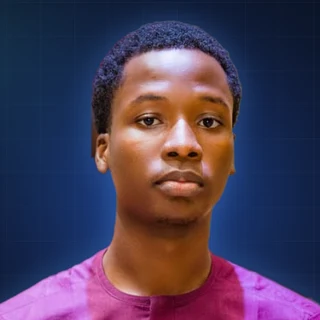
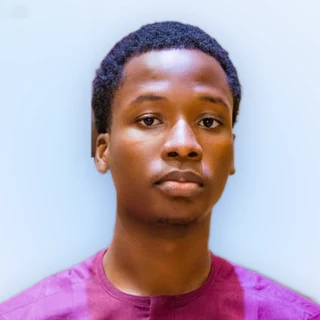
Switch to a light theme
Cool white canvas with navy text and blue accents; portrait and avatar
re-composed on a light backdrop; logo keeps its navy tile for contrast.

Claude-Session: https://claude.ai/code/session_01PW1ZTwRFQ2gmz89tXZHdqH

diff --git a/src/styles.css b/src/styles.css
@@ -12,8 +12,8 @@
 @custom-variant dark (&:is(.dark *));
 
 /*
- * Design system — "Midnight circuit"
- * Near-black navy canvas, electric blue primary, cyan signal, a whisper of violet.
+ * Design system — "Daylight circuit"
+ * Cool white canvas, deep navy ink, confident blue primary, teal signal, a touch of violet.
  * Every color in components must come from these tokens.
  */
 
@@ -77,65 +77,67 @@
 
 :root {
   --radius: 0.875rem;
-  --background: oklch(0.145 0.022 262);
-  --foreground: oklch(0.965 0.008 250);
-  --surface: oklch(0.17 0.026 262);
-  --surface-raised: oklch(0.205 0.032 262);
-  --card: oklch(0.175 0.027 262);
-  --card-foreground: oklch(0.965 0.008 250);
-  --popover: oklch(0.19 0.03 262);
-  --popover-foreground: oklch(0.965 0.008 250);
-  --primary: oklch(0.68 0.19 254);
-  --primary-foreground: oklch(0.14 0.03 262);
-  --cyan: oklch(0.84 0.13 205);
-  --violet: oklch(0.66 0.19 295);
-  --success: oklch(0.78 0.15 165);
-  --secondary: oklch(0.22 0.033 262);
-  --secondary-foreground: oklch(0.965 0.008 250);
-  --muted: oklch(0.21 0.03 262);
-  --muted-foreground: oklch(0.72 0.028 256);
-  --accent: oklch(0.25 0.045 262);
-  --accent-foreground: oklch(0.965 0.008 250);
-  --destructive: oklch(0.66 0.21 22);
+  --background: oklch(0.985 0.004 255);
+  --foreground: oklch(0.22 0.035 262);
+  --surface: oklch(0.97 0.008 255);
+  --surface-raised: oklch(0.945 0.014 258);
+  --brand-ink: oklch(0.2 0.04 262);
+  --card: oklch(1 0 0);
+  --card-foreground: oklch(0.22 0.035 262);
+  --popover: oklch(1 0 0);
+  --popover-foreground: oklch(0.22 0.035 262);
+  --primary: oklch(0.55 0.21 258);
+  --primary-foreground: oklch(1 0 0);
+  --cyan: oklch(0.55 0.13 225);
+  --violet: oklch(0.55 0.22 292);
+  --success: oklch(0.6 0.15 160);
+  --secondary: oklch(0.955 0.012 258);
+  --secondary-foreground: oklch(0.22 0.035 262);
+  --muted: oklch(0.96 0.01 258);
+  --muted-foreground: oklch(0.47 0.03 258);
+  --accent: oklch(0.94 0.02 258);
+  --accent-foreground: oklch(0.22 0.035 262);
+  --destructive: oklch(0.58 0.22 25);
   --destructive-foreground: oklch(0.98 0 0);
-  --border: oklch(0.85 0.04 255 / 0.1);
-  --input: oklch(0.85 0.04 255 / 0.14);
-  --ring: oklch(0.68 0.19 254);
-  --chart-1: oklch(0.68 0.19 254);
-  --chart-2: oklch(0.84 0.13 205);
-  --chart-3: oklch(0.66 0.19 295);
-  --chart-4: oklch(0.78 0.15 165);
-  --chart-5: oklch(0.8 0.14 80);
-  --sidebar: oklch(0.17 0.026 262);
-  --sidebar-foreground: oklch(0.965 0.008 250);
-  --sidebar-primary: oklch(0.68 0.19 254);
-  --sidebar-primary-foreground: oklch(0.14 0.03 262);
-  --sidebar-accent: oklch(0.25 0.045 262);
-  --sidebar-accent-foreground: oklch(0.965 0.008 250);
-  --sidebar-border: oklch(0.85 0.04 255 / 0.1);
-  --sidebar-ring: oklch(0.68 0.19 254);
+  --border: oklch(0.3 0.05 260 / 0.12);
+  --input: oklch(0.3 0.05 260 / 0.2);
+  --ring: oklch(0.55 0.21 258);
+  --chart-1: oklch(0.55 0.21 258);
+  --chart-2: oklch(0.55 0.13 225);
+  --chart-3: oklch(0.55 0.22 292);
+  --chart-4: oklch(0.6 0.15 160);
+  --chart-5: oklch(0.7 0.15 75);
+  --sidebar: oklch(0.97 0.008 255);
+  --sidebar-foreground: oklch(0.22 0.035 262);
+  --sidebar-primary: oklch(0.55 0.21 258);
+  --sidebar-primary-foreground: oklch(1 0 0);
+  --sidebar-accent: oklch(0.94 0.02 258);
+  --sidebar-accent-foreground: oklch(0.22 0.035 262);
+  --sidebar-border: oklch(0.3 0.05 260 / 0.12);
+  --sidebar-ring: oklch(0.55 0.21 258);
 
-  --gradient-brand: linear-gradient(115deg, var(--cyan) 0%, var(--primary) 48%, var(--violet) 100%);
-  --gradient-text: linear-gradient(
-    100deg,
-    var(--foreground) 10%,
-    var(--cyan) 55%,
-    var(--primary) 80%,
+  --gradient-brand: linear-gradient(
+    115deg,
+    oklch(0.6 0.15 228) 0%,
+    var(--primary) 48%,
     var(--violet) 100%
   );
-  --gradient-card: linear-gradient(
-    160deg,
-    oklch(0.21 0.035 262 / 0.9),
-    oklch(0.16 0.024 262 / 0.9)
+  --gradient-text: linear-gradient(
+    100deg,
+    oklch(0.58 0.15 228) 0%,
+    var(--primary) 50%,
+    var(--violet) 100%
   );
+  --gradient-card: linear-gradient(160deg, oklch(1 0 0), oklch(0.985 0.006 255));
   --gradient-cta:
-    radial-gradient(120% 140% at 0% 0%, oklch(0.68 0.19 254 / 0.35), transparent 55%),
-    radial-gradient(100% 120% at 100% 100%, oklch(0.66 0.19 295 / 0.32), transparent 55%),
-    linear-gradient(180deg, oklch(0.19 0.035 262), oklch(0.16 0.03 262));
+    radial-gradient(120% 140% at 0% 0%, oklch(0.55 0.21 258 / 0.2), transparent 55%),
+    radial-gradient(100% 120% at 100% 100%, oklch(0.55 0.22 292 / 0.18), transparent 55%),
+    linear-gradient(180deg, oklch(0.975 0.014 258), oklch(0.955 0.024 262));
   --glow-primary:
-    0 0 0 1px oklch(0.68 0.19 254 / 0.35), 0 12px 40px -12px oklch(0.68 0.19 254 / 0.55);
-  --glow-soft: 0 30px 80px -40px oklch(0.68 0.19 254 / 0.45);
-  --shadow-card: 0 1px 0 0 oklch(1 0 0 / 0.04) inset, 0 20px 50px -30px oklch(0 0 0 / 0.7);
+    0 0 0 1px oklch(0.55 0.21 258 / 0.25), 0 12px 30px -12px oklch(0.55 0.21 258 / 0.5);
+  --glow-soft: 0 30px 60px -40px oklch(0.55 0.21 258 / 0.4);
+  --shadow-card:
+    0 1px 2px 0 oklch(0.3 0.05 260 / 0.06), 0 18px 40px -26px oklch(0.3 0.08 260 / 0.28);
 }
 
 @layer base {
@@ -144,7 +146,7 @@
   }
 
   html {
-    color-scheme: dark;
+    color-scheme: light;
     -webkit-font-smoothing: antialiased;
     -moz-osx-font-smoothing: grayscale;
   }
@@ -168,7 +170,7 @@
   }
 
   ::selection {
-    background: oklch(0.68 0.19 254 / 0.35);
+    background: oklch(0.55 0.21 258 / 0.2);
   }
 }
 
@@ -212,9 +214,9 @@
     padding: 1px;
     background: linear-gradient(
       150deg,
-      oklch(0.85 0.04 255 / 0.18),
-      oklch(0.85 0.04 255 / 0.05) 40%,
-      oklch(0.68 0.19 254 / 0.12)
+      oklch(0.3 0.05 260 / 0.16),
+      oklch(0.3 0.05 260 / 0.07) 40%,
+      oklch(0.55 0.21 258 / 0.2)
     );
     -webkit-mask:
       linear-gradient(#000 0 0) content-box,
@@ -242,8 +244,8 @@
 
 @utility grid-backdrop {
   background-image:
-    linear-gradient(oklch(0.85 0.04 255 / 0.05) 1px, transparent 1px),
-    linear-gradient(90deg, oklch(0.85 0.04 255 / 0.05) 1px, transparent 1px);
+    linear-gradient(oklch(0.3 0.05 260 / 0.06) 1px, transparent 1px),
+    linear-gradient(90deg, oklch(0.3 0.05 260 / 0.06) 1px, transparent 1px);
   background-size: 56px 56px;
   mask-image: radial-gradient(ellipse 80% 60% at 50% 30%, #000 30%, transparent 75%);
 }

diff --git a/src/components/brand/Logo.tsx b/src/components/brand/Logo.tsx
@@ -13,12 +13,12 @@ export function Monogram({ className }: { className?: string }) {
     <svg viewBox="0 0 64 64" className={cn("size-9", className)} aria-hidden="true">
       <defs>
         <linearGradient id={id} x1="10" y1="10" x2="54" y2="54" gradientUnits="userSpaceOnUse">
-          <stop offset="0" stopColor="var(--cyan)" />
-          <stop offset="0.55" stopColor="var(--primary)" />
-          <stop offset="1" stopColor="var(--violet)" />
+          <stop offset="0" stopColor="#5ee0f5" />
+          <stop offset="0.55" stopColor="#3b8cff" />
+          <stop offset="1" stopColor="#9a6bff" />
         </linearGradient>
       </defs>
-      <rect width="64" height="64" rx="16" fill="var(--surface-raised)" />
+      <rect width="64" height="64" rx="16" fill="var(--brand-ink)" />
       <rect
         x="1"
         y="1"
@@ -26,7 +26,7 @@ export function Monogram({ className }: { className?: string }) {
         height="62"
         rx="15"
         fill="none"
-        stroke="var(--foreground)"
+        stroke="#ffffff"
         strokeOpacity="0.08"
         strokeWidth="2"
       />
@@ -38,7 +38,7 @@ export function Monogram({ className }: { className?: string }) {
         strokeLinecap="round"
         strokeLinejoin="round"
       />
-      <circle cx="47.57" cy="14.88" r="3.4" fill="var(--cyan)" />
+      <circle cx="47.57" cy="14.88" r="3.4" fill="#5ee0f5" />
     </svg>
   );
 }

diff --git a/src/routes/__root.tsx b/src/routes/__root.tsx
@@ -80,7 +80,7 @@ export const Route = createRootRouteWithContext<{ queryClient: QueryClient }>()(
     meta: [
       { charSet: "utf-8" },
       { name: "viewport", content: "width=device-width, initial-scale=1" },
-      { name: "theme-color", content: "#0d1424" },
+      { name: "theme-color", content: "#f8fafd" },
       { title: "Gideon Alausa — AI Automation Developer" },
       {
         name: "description",
